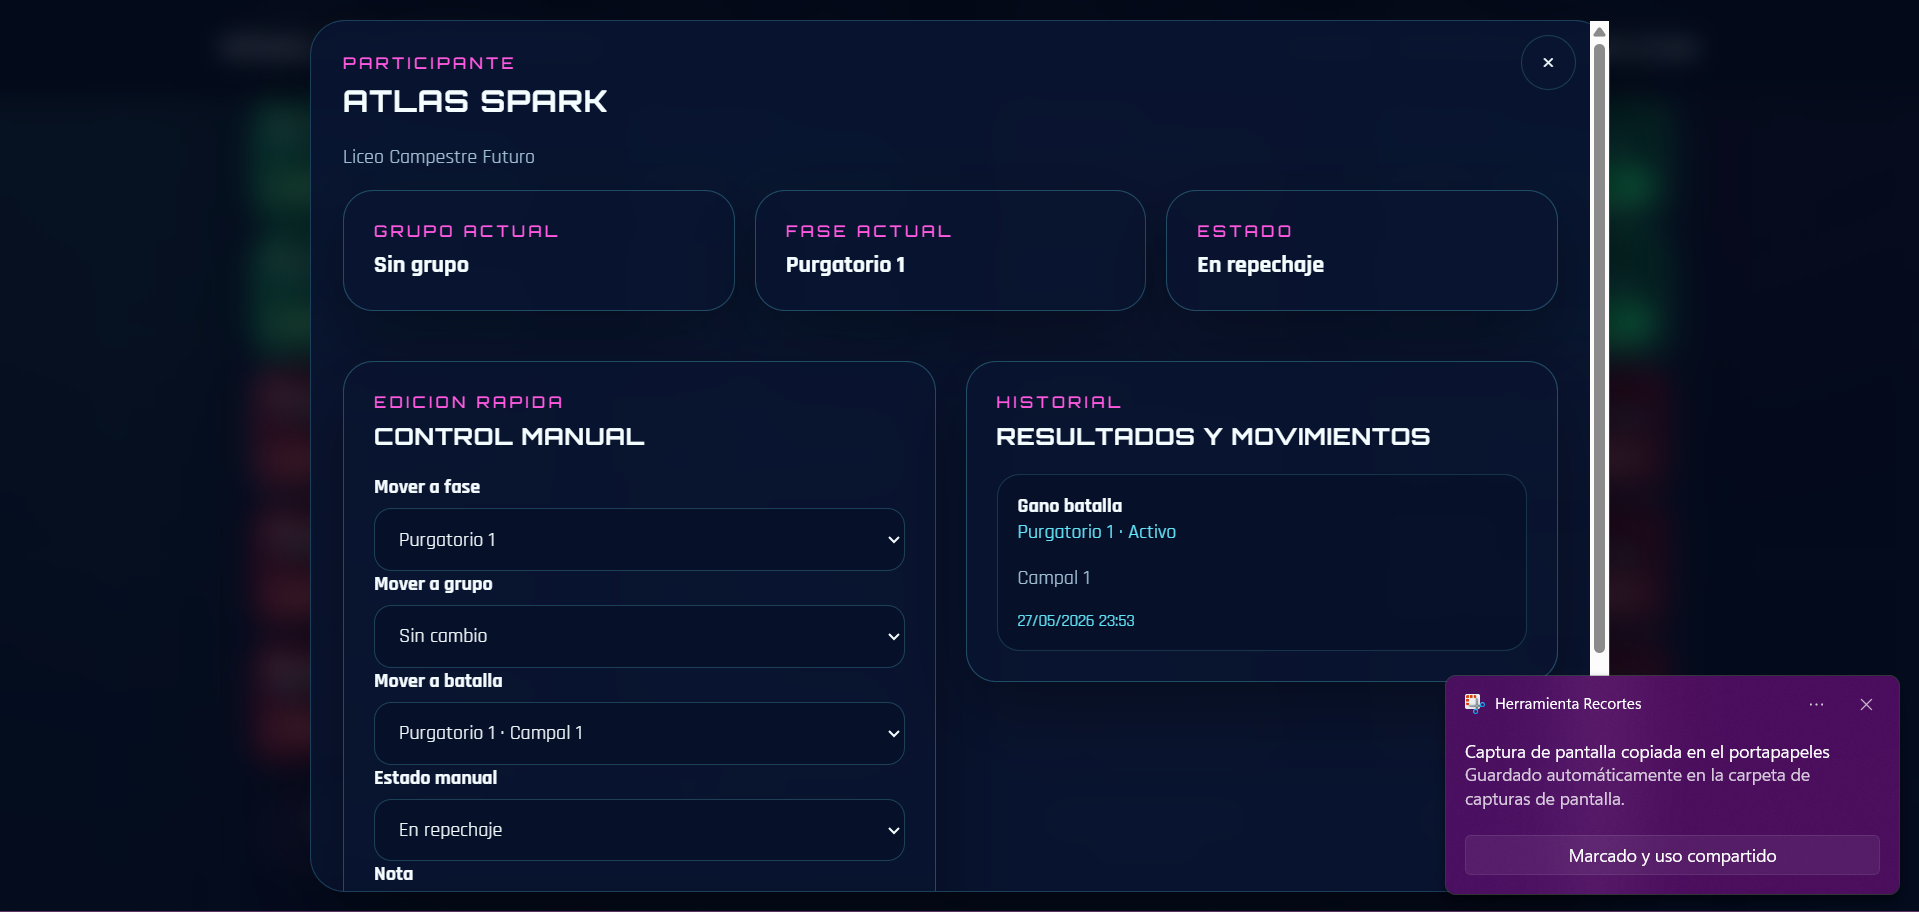
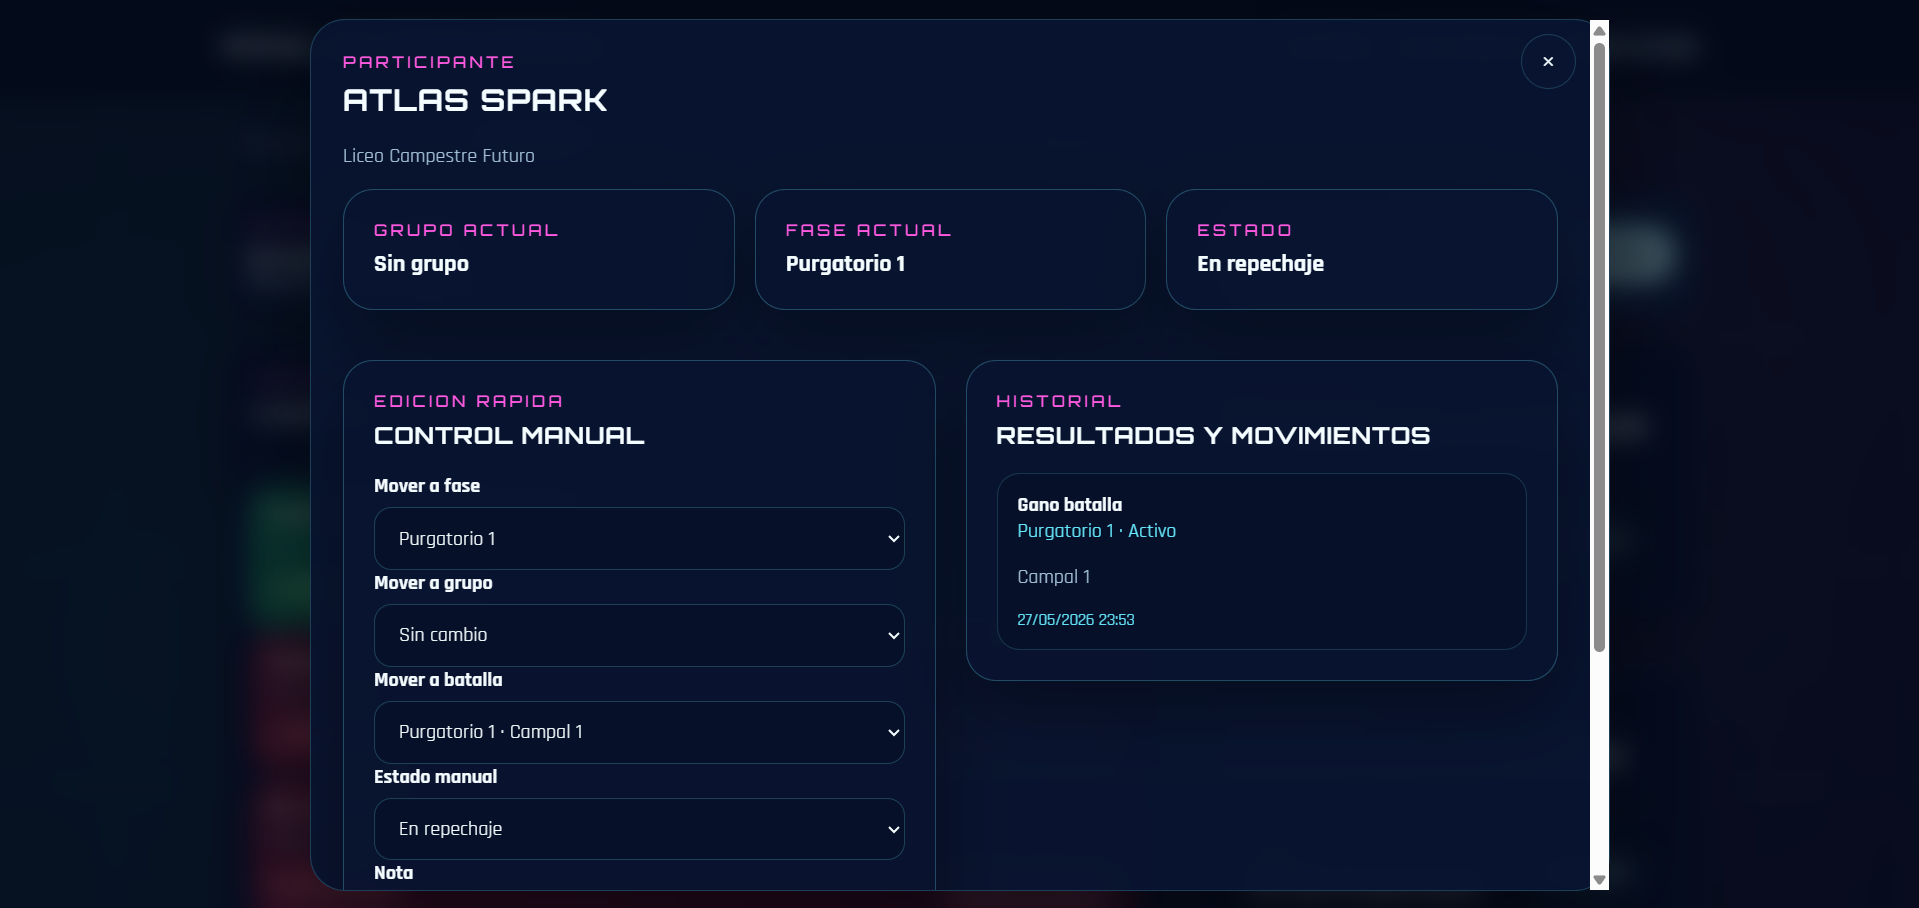
Improve README with screenshots and architecture diagrams

diff --git a/README.md b/README.md
@@ -1,26 +1,164 @@
-# Torneo Robot Explota Globos
+# Torneo Robot Explota Globos UTP
 
-Aplicación web desarrollada con Django para apoyar la gestión del torneo Robot Explota Globos UTP. El sistema centraliza información pública del evento, registro de participantes y herramientas operativas para organizar ediciones, fases y enfrentamientos.
+Plataforma web desarrollada con Django para apoyar la gestión operativa del torneo Robot Explota Globos UTP. El sistema centraliza la publicación de reglas, el registro de robots participantes y el control de formatos de competencia con grupos, fases, repechajes, resultados y movimientos manuales.
 
-Este repositorio se presenta como proyecto de portafolio y como base técnica para digitalizar procesos del torneo, manteniendo una separación clara entre configuración local, datos sensibles y código versionado.
+Este repositorio funciona como presentación técnica de portafolio para GitHub y LinkedIn. El proyecto nace del contexto real del torneo Robot Explota Globos UTP y evoluciona como una herramienta configurable para validar escenarios de competencia, automatizar tareas organizativas y facilitar el seguimiento del torneo.
 
-## Contexto
+## Vista rápida
 
-Robot Explota Globos es una competencia de robótica en la que equipos de colegios y universidades participan con robots diseñados para cumplir las reglas oficiales del evento. Este proyecto fue desarrollado para apoyar la gestión del torneo Robot Explota Globos UTP, especialmente en el registro de robots, publicación de reglas y organización inicial de la competencia.
+| Área | Descripción |
+| --- | --- |
+| Dominio | Gestión de torneo de robótica competitiva |
+| Backend | Django 5.2 LTS |
+| Base de datos | PostgreSQL en producción, SQLite para desarrollo local |
+| Frontend | Templates Django, HTML, CSS y JavaScript |
+| Configuración | Variables de entorno con `.env.example` |
+| Estado | Prototipo funcional con pruebas piloto y simulaciones operativas |
+
+## Capturas
+
+Las capturas corresponden a pruebas piloto y simulaciones utilizadas para validar la lógica del torneo. Los datos visibles son de demostración y sirven para probar flujos de registro, distribución de grupos, clasificación, repechajes y control manual de participantes.
+
+### Página pública del torneo
+
+![Página pública del torneo](docs/screenshots/01_home.png)
+
+### Registro por categoría
+
+![Registro por categoría](docs/screenshots/02_registration..png)
+
+### Reglamento oficial integrado
+
+![Reglamento oficial en PDF](docs/screenshots/03_rules_pdf.png)
+
+### Configuración del formato de competencia
+
+![Configuración del formato de competencia](docs/screenshots/04_control_format..png)
+
+### Validación de grupos y resultados
+
+![Validación de grupos y resultados](docs/screenshots/05_groups_results.png)
+
+### Control manual de participantes
+
+![Control manual de participantes](docs/screenshots/06_manual_control.png)
+
+## Contexto del proyecto
+
+Robot Explota Globos es una competencia de robótica en la que equipos de colegios y universidades participan con robots diseñados para cumplir las reglas oficiales del evento. Esta plataforma fue desarrollada para apoyar la gestión del torneo Robot Explota Globos UTP, especialmente en:
+
+- Registro de robots por categoría.
+- Consulta pública del reglamento.
+- Organización inicial de participantes.
+- Simulación de formatos de competencia.
+- Control operativo de fases, grupos y resultados.
 
 El archivo `static/docs/ExplotaGlobos.pdf` se conserva en el repositorio porque contiene las reglas oficiales del torneo.
 
-## Funcionalidades principales
+## Funcionalidades actuales
 
-- Página pública de inicio y consulta de reglas del torneo.
-- Registro diferenciado para robots de colegios y universidades.
-- Validación de inscripciones por edición activa.
-- Prevención de duplicados por robot, correo y documento del líder.
+- Página pública del evento con información del torneo, accesos a reglas y registro.
+- Registro diferenciado para categoría escolar y categoría universitaria.
+- Validación de inscripciones contra una edición activa del torneo.
+- Prevención de duplicados por nombre de robot, correo y documento del líder.
+- Registro de integrantes por equipo con líder obligatorio e integrantes opcionales.
 - Envío configurable de correos de confirmación.
-- Modelado de ediciones, fases y enfrentamientos.
-- Panel interno para gestión operativa del torneo.
-- Configuración por variables de entorno para desarrollo y producción.
-- Soporte para SQLite en desarrollo local y PostgreSQL en entornos productivos.
+- Confirmación de asistencia mediante token único.
+- Modelado de instituciones, equipos, miembros, ediciones, reglas, fases y enfrentamientos.
+- Panel interno protegido para organizadores.
+- Generación de planes por división: colegios y universidades.
+- Formatos automáticos según cantidad de equipos inscritos.
+- Configuración manual de grupos, clasificados, repechajes y tercer lugar.
+- Registro de ganadores por grupo o batalla.
+- Sincronización de estados de participantes durante el avance del torneo.
+- Historial de movimientos, resultados y correcciones manuales.
+
+## Escalabilidad y configuración
+
+La lógica del torneo está diseñada para adaptarse a diferentes tamaños y formatos de competencia. El sistema puede sugerir automáticamente un formato según la cantidad de equipos o permitir ajustes manuales desde el panel de organización.
+
+Actualmente soporta escenarios como:
+
+- Fase de grupos balanceada.
+- Clasificación por cantidad configurable de equipos por grupo.
+- Cuadros finales sin byes.
+- Ronda de 32, octavos, cuartos, semifinal, tercer lugar y final.
+- Purgatorio 1 y Purgatorio 2 como mecanismos de repechaje.
+- Batallas tipo duelo, triangular y campal.
+- Correcciones manuales cuando la operación real del torneo requiere ajustes.
+
+Esta base permite extender el sistema hacia nuevos formatos, reglas de clasificación, visualización pública de resultados y operación en tiempo real.
+
+## Arquitectura
+
+El proyecto sigue una organización modular por dominio:
+
+```mermaid
+flowchart LR
+    U["Usuario público"] --> C["apps/core"]
+    U --> P["apps/participants"]
+    O["Organizador"] --> T["apps/tournament"]
+    C --> DB["Base de datos"]
+    P --> DB
+    T --> DB
+    T --> S["Servicios de sincronización y planificación"]
+    P --> E["Correo configurable"]
+```
+
+### Módulos principales
+
+- `config/`: configuración central de Django, rutas principales, WSGI y ASGI.
+- `apps/core/`: páginas públicas, inicio, reglas y patrocinadores.
+- `apps/participants/`: formularios, modelos, vistas y servicios de inscripción.
+- `apps/tournament/`: modelos, formatos, planificación, servicios y vistas del panel operativo.
+- `apps/common/`: componentes reutilizables del dominio.
+- `static/css/`: estilos públicos del sitio.
+- `static/js/`: scripts del sistema.
+- `static/docs/`: documentos públicos del torneo, incluyendo el reglamento oficial.
+- `static/sponsors/`: recursos visuales de patrocinadores y contexto del evento.
+- `logos_patrocinadores/`: logos usados como referencia visual del torneo.
+- `docs/screenshots/`: capturas utilizadas para documentar pruebas piloto y simulaciones.
+
+### Flujo de inscripción
+
+```mermaid
+flowchart TD
+    A["Participante entra a /registro/"] --> B["Selecciona categoría"]
+    B --> C["Formulario colegio o universidad"]
+    C --> D["Validaciones de edición activa"]
+    D --> E["Validación de robot, correo y documentos"]
+    E --> F["Registro del robot e integrantes"]
+    F --> G["Correo de confirmación"]
+    G --> H["Confirmación visual de inscripción"]
+```
+
+### Flujo operativo del torneo
+
+```mermaid
+flowchart TD
+    A["Edición activa"] --> B["Equipos aprobados"]
+    B --> C["Generación de competencia por división"]
+    C --> D["Distribución de grupos"]
+    D --> E["Registro de clasificados"]
+    E --> F["Sincronización de fases"]
+    F --> G["Batallas y ganadores"]
+    G --> H["Historial y estado del participante"]
+    H --> I["Correcciones manuales si aplica"]
+```
+
+## Modelo de dominio
+
+- `TournamentEdition`: edición del torneo; solo una puede estar activa.
+- `RuleSection`: secciones de reglas publicables.
+- `SchoolRegistration` y `UniversityRegistration`: inscripciones públicas por categoría.
+- `SchoolParticipant` y `UniversityParticipant`: integrantes asociados a una inscripción.
+- `Institution`, `Team` y `TeamMember`: estructura operativa para equipos oficiales.
+- `DivisionCompetition`: competencia por división, por ejemplo colegios o universidades.
+- `DivisionGroup` y `DivisionGroupEntry`: distribución de equipos en grupos.
+- `CompetitionBattle` y `CompetitionBattleEntry`: batallas configurables por fase.
+- `TeamCompetitionState`: estado actual de cada equipo dentro de la competencia.
+- `CompetitionHistoryEntry`: historial de resultados, movimientos y correcciones.
+- `TournamentPhase` y `Match`: base flexible para fases y enfrentamientos generales.
 
 ## Stack tecnológico
 
@@ -31,19 +169,6 @@ El archivo `static/docs/ExplotaGlobos.pdf` se conserva en el repositorio porque 
 - HTML, CSS y JavaScript
 - python-dotenv
 - psycopg
-
-## Estructura del proyecto
-
-- `config/`: configuración central de Django, rutas principales, WSGI y ASGI.
-- `apps/core/`: páginas públicas, inicio, reglas y patrocinadores.
-- `apps/participants/`: formularios, modelos, vistas y servicios de inscripción.
-- `apps/tournament/`: modelos y vistas para ediciones, fases, enfrentamientos y panel interno.
-- `apps/common/`: componentes reutilizables del dominio.
-- `static/css/`: estilos públicos del sitio.
-- `static/js/`: scripts del sistema.
-- `static/docs/`: documentos públicos del torneo, incluyendo el reglamento oficial.
-- `static/sponsors/`: recursos visuales de patrocinadores y contexto del evento.
-- `logos_patrocinadores/`: logos usados como referencia visual del torneo.
 
 ## Instalación local
 
@@ -76,7 +201,15 @@ DJANGO_DEBUG=True
 DJANGO_DATABASE=sqlite
 ```
 
-Para un entorno más cercano a producción, configura PostgreSQL con las variables `POSTGRES_DB`, `POSTGRES_USER`, `POSTGRES_PASSWORD`, `POSTGRES_HOST` y `POSTGRES_PORT`.
+Para un entorno más cercano a producción, configura PostgreSQL con:
+
+```env
+POSTGRES_DB=robot_tournament
+POSTGRES_USER=robot_app
+POSTGRES_PASSWORD=replace-with-a-strong-database-password
+POSTGRES_HOST=127.0.0.1
+POSTGRES_PORT=5432
+```
 
 ## Variables de entorno
 
@@ -132,6 +265,9 @@ Este proyecto está preparado para mantener fuera del repositorio archivos sensi
 - `db.sqlite3` y archivos `*.sqlite3` están ignorados.
 - Entornos virtuales, cachés, logs y archivos temporales están ignorados.
 - Las credenciales reales de correo, base de datos y claves secretas deben configurarse mediante variables de entorno.
+- `DEBUG` está desactivado por defecto en la configuración.
+- La clave secreta de Django es obligatoria cuando el proyecto no está en modo desarrollo.
+- SQLite queda reservado para desarrollo local.
 
 No uses datos reales de estudiantes, colegios, universidades, documentos, correos o participantes en una base de datos que vaya a publicarse. Para demos o portafolio, usa datos ficticios o semillas controladas.
 
@@ -143,26 +279,31 @@ Si el repositorio se reutiliza fuera del contexto del torneo Robot Explota Globo
 
 ## Estado actual
 
-El proyecto cuenta con una base funcional para registro público y administración inicial del torneo. Incluye modelos de inscripción, participantes, ediciones, reglas, fases y enfrentamientos, además de configuración por variables de entorno y medidas básicas de seguridad para despliegue.
+El proyecto cuenta con una base funcional para registro público y administración inicial del torneo. Incluye modelos de inscripción, participantes, ediciones, reglas, fases, grupos, batallas, estados por equipo e historial de movimientos.
+
+Las capturas documentan una simulación operativa utilizada para validar el comportamiento del sistema con datos piloto: distribución de equipos, configuración de formatos, registro de ganadores, estados de repechaje y control manual.
 
 Estado recomendado para portafolio:
 
 - Código funcional como demostración técnica.
-- README orientado a instalación y revisión del proyecto.
+- README orientado a instalación, revisión y presentación profesional.
 - Variables sensibles documentadas mediante `.env.example`.
 - Archivos locales y secretos excluidos mediante `.gitignore`.
 - Reglamento oficial disponible en `static/docs/ExplotaGlobos.pdf`.
+- Capturas disponibles en `docs/screenshots/`.
 
 ## Roadmap
 
-1. Diseñar la conversión de inscripciones aprobadas a equipos oficiales del torneo.
-2. Definir el formato final de fases, clasificación y playoffs.
-3. Crear flujos operativos para aprobación, check-in y resultados.
-4. Incorporar pruebas automáticas para modelos, formularios y vistas críticas.
-5. Añadir datos demo seguros para presentación pública.
-6. Documentar una guía de despliegue con PostgreSQL, archivos estáticos y servidor WSGI/ASGI.
-7. Revisar permisos de uso de logos y recursos visuales antes de reutilizar el proyecto en otro contexto.
+1. Añadir una semilla de datos demo segura y reproducible para portafolio.
+2. Incorporar pruebas automáticas para modelos, formularios, servicios de torneo y vistas críticas.
+3. Mejorar la visualización pública de resultados, llaves y estados por categoría.
+4. Añadir exportación de resultados para organizadores.
+5. Documentar una guía de despliegue con PostgreSQL, archivos estáticos y servidor WSGI/ASGI.
+6. Evaluar soporte para operación en tiempo real durante el evento.
+7. Fortalecer auditoría de cambios, permisos por rol y bitácora administrativa.
+8. Revisar permisos de uso de logos y recursos visuales antes de reutilizar el proyecto en otro contexto.
+9. Preparar capturas finales sin datos reales ni elementos del sistema operativo.
 
 ## Nota para portafolio
 
-Este repositorio muestra una solución Django aplicada a un caso real de gestión de torneo: registro de participantes, estructura de dominio, configuración por entorno y primeras medidas de seguridad para publicación. Antes de usarlo en producción, se recomienda completar pruebas, despliegue controlado, política de privacidad y revisión final de datos sensibles.
+Este repositorio muestra una solución Django aplicada a un caso real de gestión de torneo: registro de participantes, modelado de dominio, configuración por entorno, planificación de formatos competitivos y primeras medidas de seguridad para publicación. Antes de usarlo en producción, se recomienda completar pruebas, despliegue controlado, política de privacidad y revisión final de datos sensibles.
